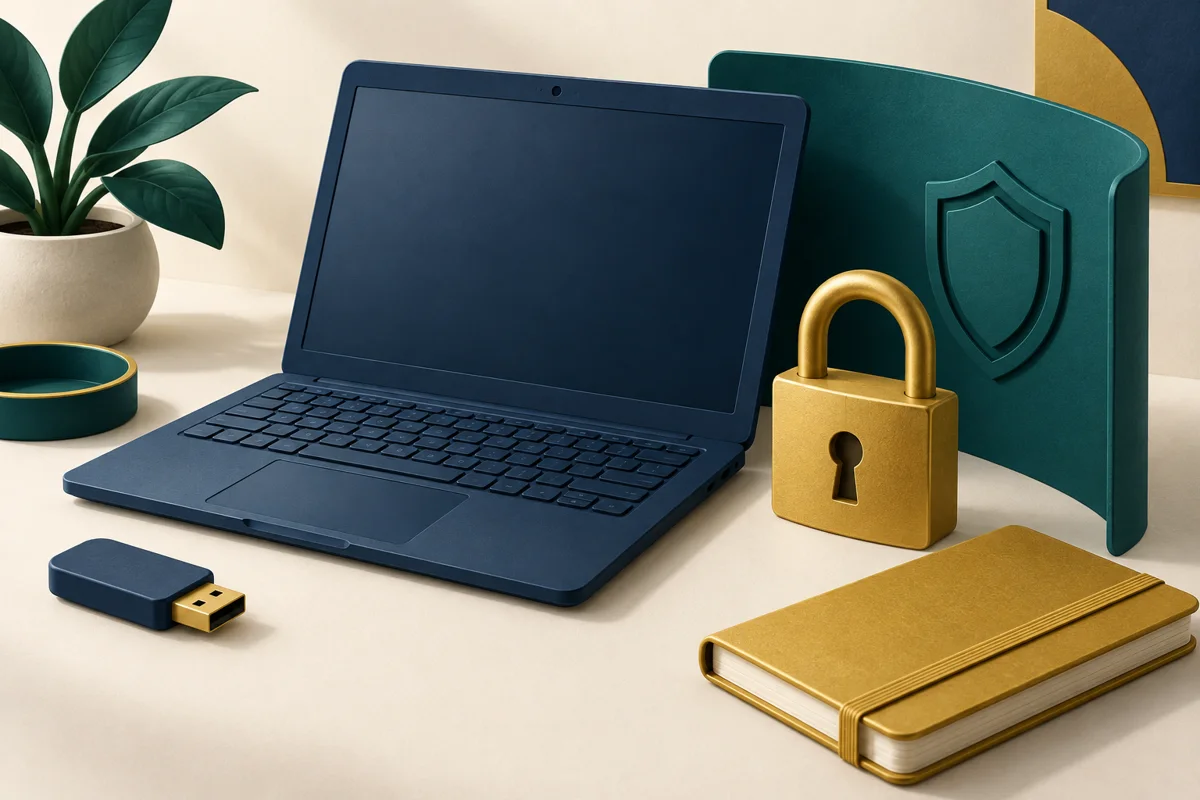
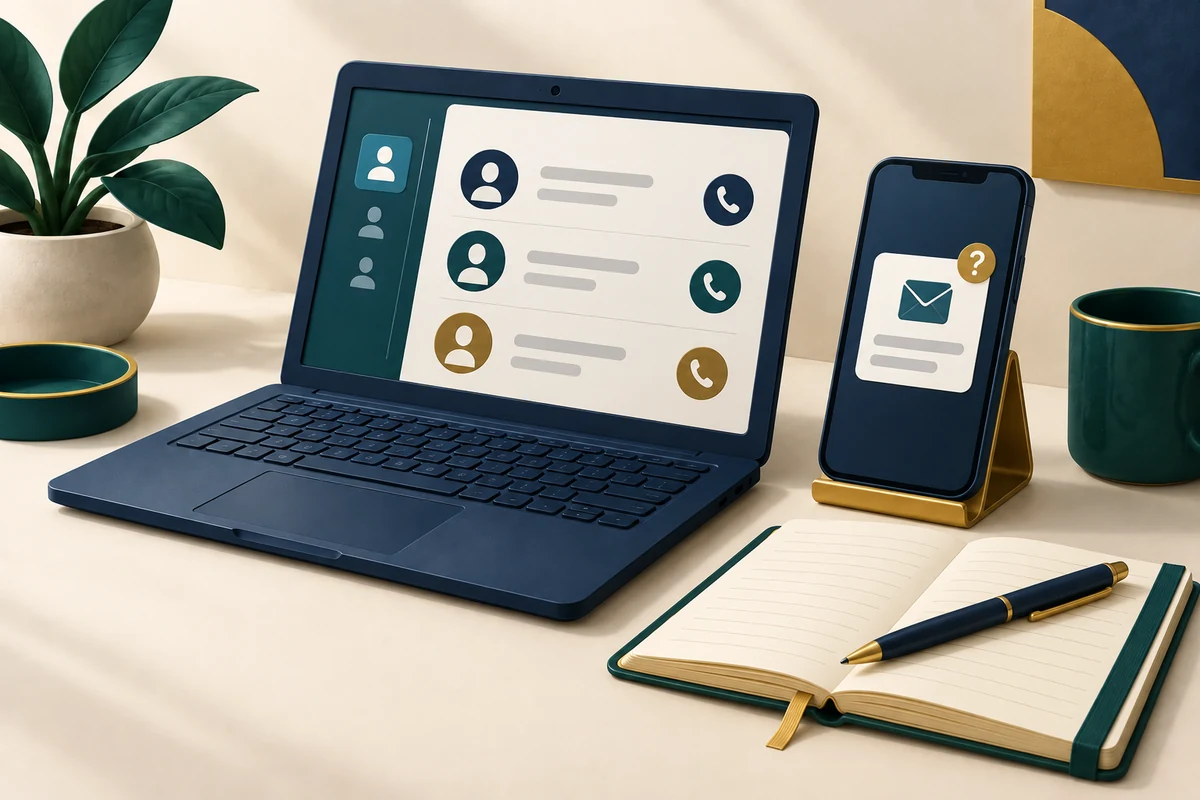
Replace DL2 workstation and safety illustrations with approved artwork

diff --git a/docs/digital-literacy-2/review/image-refresh/REVIEW.md b/docs/digital-literacy-2/review/image-refresh/REVIEW.md
@@ -1,0 +1,14 @@
+# Presentation image refresh comparison
+
+Two alternatives generated with the built-in image generator using the existing artwork as a reference. The tool does not expose a model version, so these are not labeled as Image 2.5 outputs. Exact prompts are in `prompts.json`.
+
+- **Online safety: recommended improvement.** The current blank laptop and oversized lock communicate security generally. The candidate connects an unexpected message with a separately consulted contact directory. It preserves the navy, teal and gold identity while making the scene more relevant to independent verification. It remains supporting artwork; the actual verification steps stay in accessible lesson text and controls.
+- **Workstation: cleaner alternative.** The candidate reduces decorative clutter and gives the monitor stronger focus. Printer and headphones remain recognizable in the full landscape image. The original also works well; this is a composition refinement rather than a major teaching improvement.
+
+Both outputs were visually inspected for style, subject, layout and unwanted text. They are 3:2 landscape candidates. Narrow video crops would need a separate review before reuse. No course references, published assets, or rendered videos were replaced during this comparison.
+
+Files: `security-candidate.png`, `workstation-candidate.png`.
+
+## Approved replacement
+
+On September 21, the user approved both candidates. They replace the workstation and security presentation WebP assets at their existing paths, with the same dimensions and aspect ratio. Rendered videos are unchanged.
